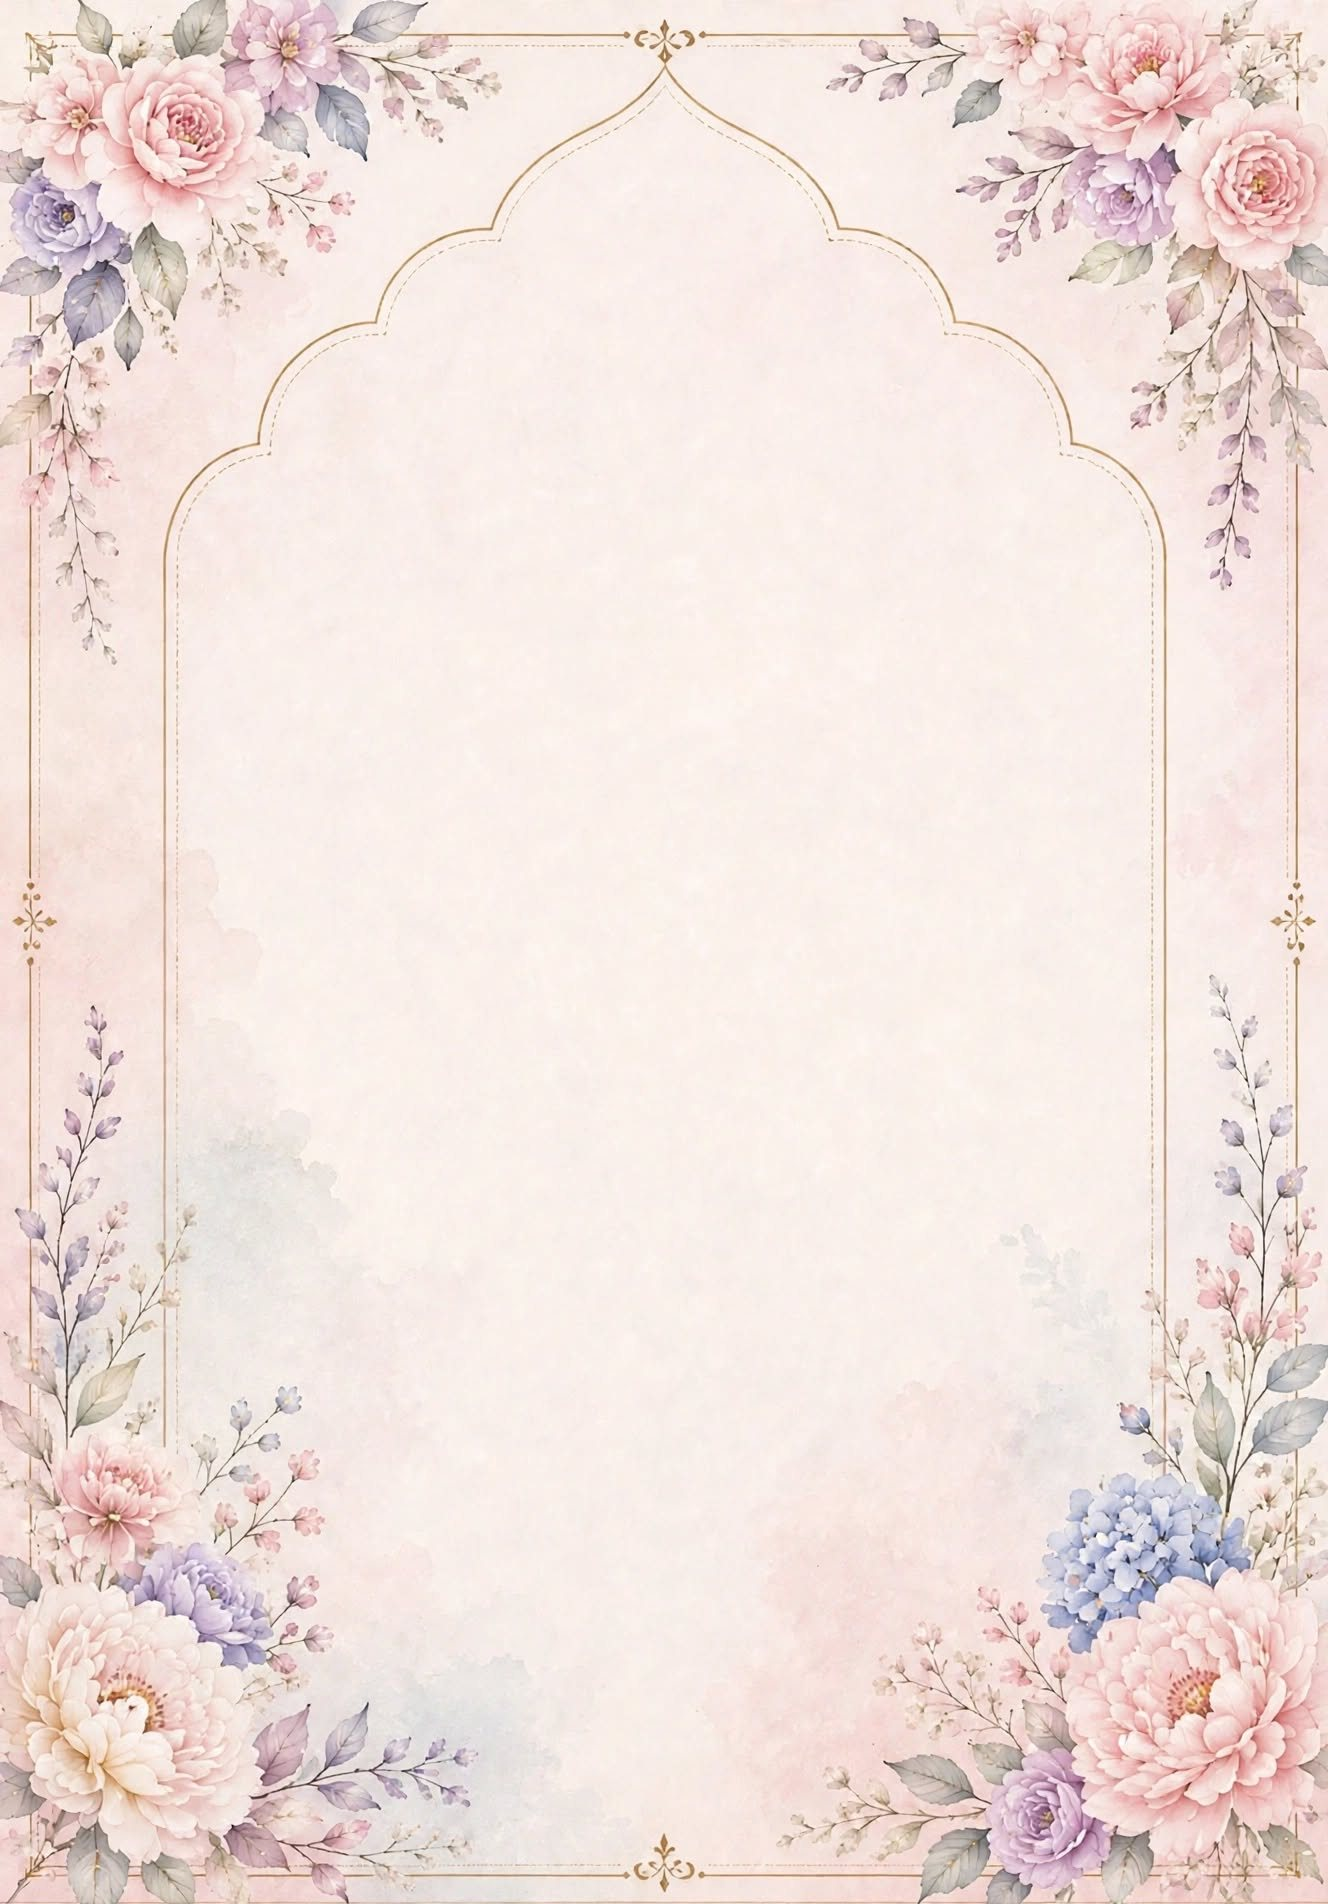
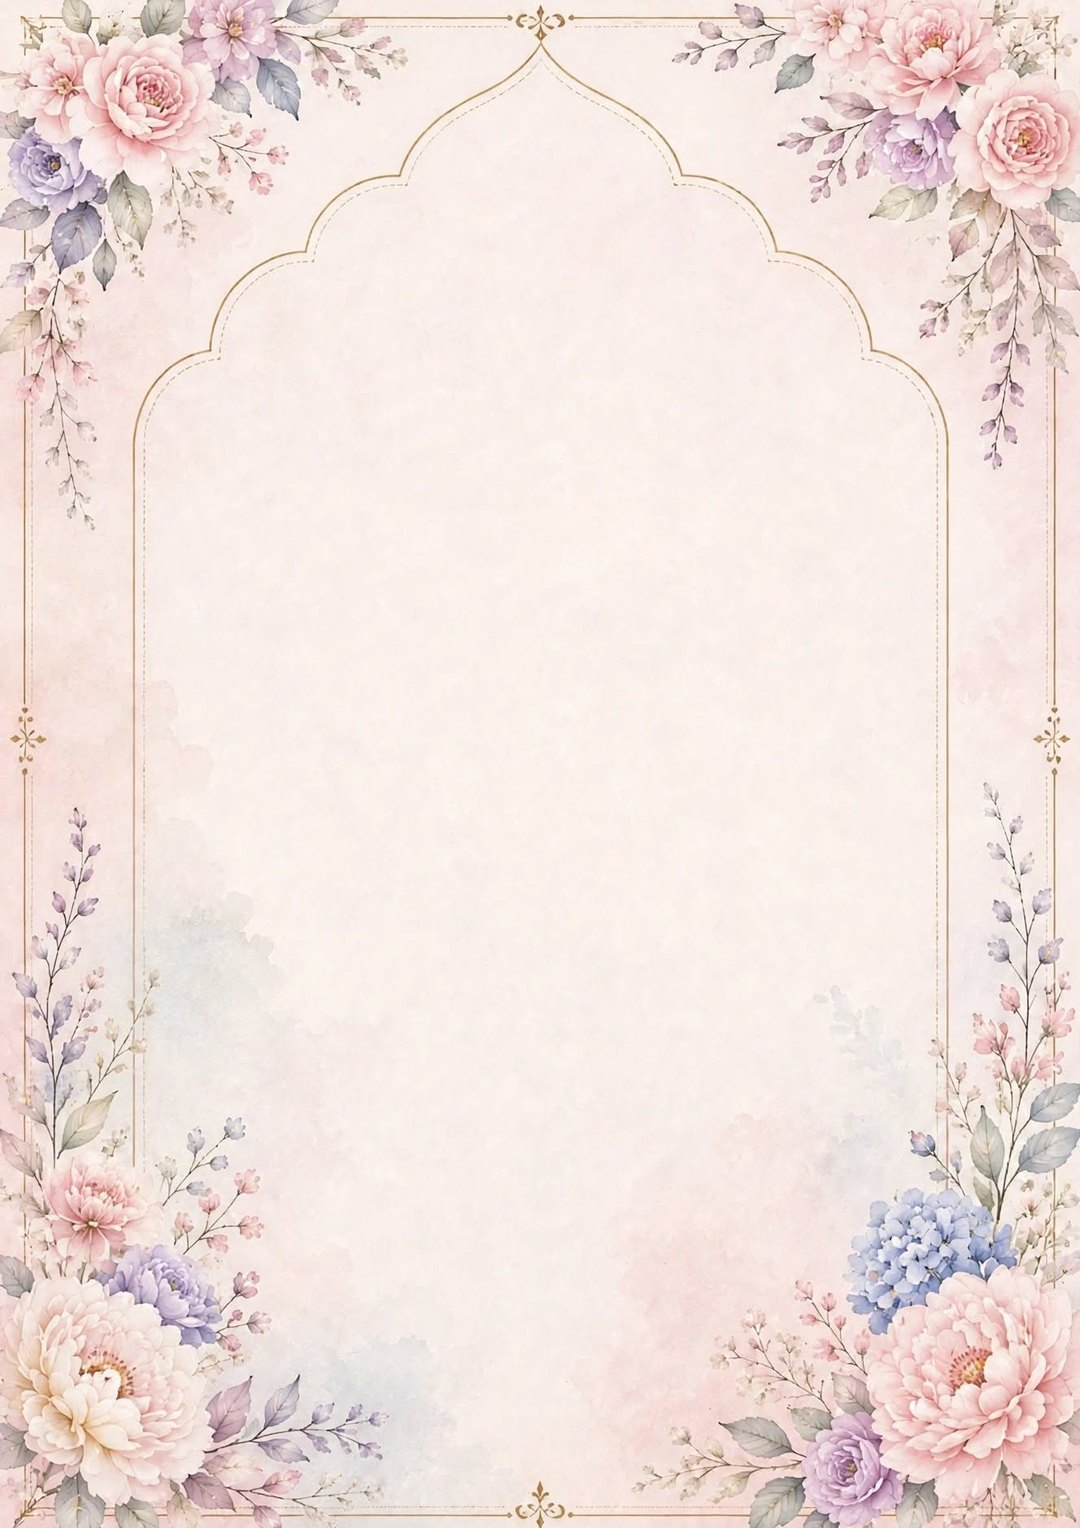
Add files via upload

diff --git a/index.html b/index.html
@@ -12,12 +12,12 @@
   HOW TO EDIT
   • Words (names, dates, events, times, venues): scroll down to the
     blocks marked "EDIT: …".
-  • Pictures live in the "images" folder next to this file:
+  • Pictures sit next to this file (same folder):
       bg-cover.jpg  cover            bg-day3.jpg  Day 3 (Anand Karaj)
       bg-day1.jpg   Day 1            bg-day4.jpg  Day 4 (Reception)
       bg-day2.jpg   Day 2 (Haldi)    fall-*.png  falling flowers
       jhoola.png    the swing on Day 2 (moves on its own)
-      dove-*.png    the flying doves on Day 3
+      bird-*.png    the flying doves on Day 3
     To swap a picture, replace the file (same name) or change the
     url(...) in the "Backgrounds" section below.
   • Each picture fills the whole screen. If text overlaps the artwork
@@ -91,10 +91,11 @@ body.cover-locked{ overflow:hidden; height:100vh; }
    placed in units of the painting, so text and artwork keep the same proportions
    on every screen. Any space left around the painting is filled with a soft,
    blurred copy of it.
-   Per page:  --hw / --wh   painting height÷width and width÷height
-              --t1 / --th   where the text block starts / how tall it is (fraction of painting height)
+   All paintings are the same size: 1080 × 1528 pixels.
+   Per page:  --t1 / --th   where the text block starts / how tall it is (fraction of painting height)
               --tw          half the text width (fraction of painting width)            */
-.painted{ height:100vh; height:100svh; container-type:size; }
+.painted{ height:100vh; height:100svh; container-type:size;
+  --hw:1.41481; --wh:.70681;   /* every painting is 1080 × 1528 */ }
 .painted > *{
   --artH: min(100cqh, calc(100cqw * var(--hw)));
   --artW: calc(var(--artH) * var(--wh));
@@ -141,11 +142,11 @@ body.cover-locked{ overflow:hidden; height:100vh; }
   margin-bottom:calc(.4 * var(--u));
 }
 
-#coverPage{ --hw:1.43373; --wh:.69748; --t1:.22; --th:.42; --tw:.30; }
-#day1{ --hw:1.38961; --wh:.71963; --t1:.17; --th:.50; --tw:.32; }
-#day2{ --hw:1.41556; --wh:.70643; --t1:.15; --th:.40; --tw:.34; }
-#day3{ --hw:1.5;     --wh:.66667; --t1:.27; --th:.41; --tw:.33; }
-#day4{ --hw:1.41556; --wh:.70643; --t1:.115; --th:.465; --tw:.34; }
+#coverPage{ --t1:.216; --th:.426; --tw:.30; }
+#day1{ --t1:.17; --th:.50; --tw:.326; }
+#day2{ --t1:.15; --th:.40; --tw:.34; }
+#day3{ --t1:.265; --th:.418; --tw:.33; }
+#day4{ --t1:.115; --th:.465; --tw:.34; }
 
 #day2 .gurbani, #day2 .translation{ color:#7A4A14; }
 #day3 .gurbani{ color:#6B2E2E; } #day3 .translation{ color:#4E4A3A; }
@@ -246,7 +247,7 @@ body.cover-locked{ overflow:hidden; height:100vh; }
 #day3      { --bg:url('bg-day3.jpg'); }
 #day4      { --bg:url('bg-day4.jpg'); }
 #note      { --bg:url('bg-note.jpg'); }
-#note{ --hw:1.38961; --wh:.71963; --t1:.24; --th:.41; --tw:.31; }
+#note{ --t1:.24; --th:.41; --tw:.316; }
 
 /* ---------- Cover ---------- */
 #coverPage{ cursor:pointer; }
@@ -471,26 +472,26 @@ body:not(.cover-locked) .splash-hint{ display:none; }
 <!-- ======================= EDIT: DAY 3 — 5 NOV ======================= -->
 <section class="page painted" id="day3">
   <div class="art" aria-hidden="true">
-    <span class="bird" style="left:35.625%; top:12.128%; width:6.25%; --dx:18.1cqw; --dy:-3.4cqw; --dur:21.2s; --delay:-1.5s; --flap:0.50s;"><img src="bird-1.png" alt=""></span>
-    <span class="bird" style="left:57.969%; top:13.188%; width:5.234%; --dx:16.8cqw; --dy:-3.0cqw; --dur:21.7s; --delay:-0.8s; --flap:0.48s;"><img src="bird-2.png" alt=""></span>
-    <span class="bird" style="left:45.234%; top:13.876%; width:4.297%; --dx:17.3cqw; --dy:-2.8cqw; --dur:18.7s; --delay:-15.5s; --flap:0.41s;"><img src="bird-3.png" alt=""></span>
-    <span class="bird" style="left:67.656%; top:15.107%; width:5.938%; --dx:24.8cqw; --dy:-4.1cqw; --dur:20.2s; --delay:-11.7s; --flap:0.47s;"><img src="bird-4.png" alt=""></span>
-    <span class="bird" style="left:22.812%; top:15.681%; width:4.766%; --dx:16.7cqw; --dy:-3.8cqw; --dur:27.8s; --delay:-8.0s; --flap:0.41s;"><img src="bird-5.png" alt=""></span>
-    <span class="bird" style="left:50.078%; top:16.225%; width:4.375%; --dx:20.3cqw; --dy:-3.7cqw; --dur:19.2s; --delay:-3.5s; --flap:0.51s;"><img src="bird-6.png" alt=""></span>
-    <span class="bird" style="left:37.578%; top:16.597%; width:4.453%; --dx:21.2cqw; --dy:-3.1cqw; --dur:24.4s; --delay:-1.5s; --flap:0.39s;"><img src="bird-7.png" alt=""></span>
-    <span class="bird" style="left:57.188%; top:17.027%; width:5.312%; --dx:25.5cqw; --dy:-2.8cqw; --dur:20.1s; --delay:-6.3s; --flap:0.51s;"><img src="bird-8.png" alt=""></span>
-    <span class="bird" style="left:17.422%; top:17.542%; width:5.0%; --dx:20.2cqw; --dy:-3.7cqw; --dur:22.5s; --delay:-15.7s; --flap:0.43s;"><img src="bird-9.png" alt=""></span>
-    <span class="bird" style="left:29.141%; top:17.542%; width:5.0%; --dx:23.4cqw; --dy:-3.9cqw; --dur:23.7s; --delay:-17.3s; --flap:0.44s;"><img src="bird-10.png" alt=""></span>
-    <span class="bird" style="left:74.062%; top:18.516%; width:5.391%; --dx:17.7cqw; --dy:-2.8cqw; --dur:27.8s; --delay:-21.0s; --flap:0.41s;"><img src="bird-11.png" alt=""></span>
-    <span class="bird" style="left:65.781%; top:18.631%; width:5.938%; --dx:16.5cqw; --dy:-3.4cqw; --dur:22.9s; --delay:-17.5s; --flap:0.51s;"><img src="bird-12.png" alt=""></span>
-    <span class="bird" style="left:30.859%; top:19.519%; width:4.766%; --dx:20.4cqw; --dy:-3.5cqw; --dur:26.8s; --delay:-15.9s; --flap:0.51s;"><img src="bird-13.png" alt=""></span>
-    <span class="bird" style="left:22.812%; top:20.092%; width:6.172%; --dx:27.8cqw; --dy:-4.1cqw; --dur:22.6s; --delay:-10.7s; --flap:0.53s;"><img src="bird-14.png" alt=""></span>
-    <span class="bird" style="left:63.438%; top:22.298%; width:3.125%; --dx:25.8cqw; --dy:-3.3cqw; --dur:18.6s; --delay:-18.5s; --flap:0.56s;"><img src="bird-15.png" alt=""></span>
-    <span class="bird" style="left:77.578%; top:23.014%; width:4.375%; --dx:21.4cqw; --dy:-3.4cqw; --dur:20.8s; --delay:-0.5s; --flap:0.48s;"><img src="bird-16.png" alt=""></span>
-    <span class="bird" style="left:19.609%; top:23.215%; width:6.172%; --dx:17.6cqw; --dy:-1.9cqw; --dur:19.7s; --delay:-15.1s; --flap:0.41s;"><img src="bird-17.png" alt=""></span>
-    <span class="bird" style="left:69.219%; top:23.300%; width:5.703%; --dx:21.5cqw; --dy:-3.9cqw; --dur:20.5s; --delay:-1.6s; --flap:0.48s;"><img src="bird-18.png" alt=""></span>
-    <span class="bird" style="left:69.844%; top:25.907%; width:5.078%; --dx:28.4cqw; --dy:-3.7cqw; --dur:23.5s; --delay:-20.3s; --flap:0.44s;"><img src="bird-19.png" alt=""></span>
-    <span class="bird" style="left:82.266%; top:26.681%; width:5.156%; --dx:21.0cqw; --dy:-3.9cqw; --dur:22.2s; --delay:-21.2s; --flap:0.41s;"><img src="bird-20.png" alt=""></span>
+    <span class="bird" style="left:35.625%; top:11.363%; width:6.25%; --dx:18.1cqw; --dy:-3.4cqw; --dur:21.2s; --delay:-1.5s; --flap:0.50s;"><img src="bird-1.png" alt=""></span>
+    <span class="bird" style="left:57.969%; top:12.445%; width:5.234%; --dx:16.8cqw; --dy:-3.0cqw; --dur:21.7s; --delay:-0.8s; --flap:0.48s;"><img src="bird-2.png" alt=""></span>
+    <span class="bird" style="left:45.234%; top:13.147%; width:4.297%; --dx:17.3cqw; --dy:-2.8cqw; --dur:18.7s; --delay:-15.5s; --flap:0.41s;"><img src="bird-3.png" alt=""></span>
+    <span class="bird" style="left:67.656%; top:14.402%; width:5.938%; --dx:24.8cqw; --dy:-4.1cqw; --dur:20.2s; --delay:-11.7s; --flap:0.47s;"><img src="bird-4.png" alt=""></span>
+    <span class="bird" style="left:22.812%; top:14.988%; width:4.766%; --dx:16.7cqw; --dy:-3.8cqw; --dur:27.8s; --delay:-8.0s; --flap:0.41s;"><img src="bird-5.png" alt=""></span>
+    <span class="bird" style="left:50.078%; top:15.543%; width:4.375%; --dx:20.3cqw; --dy:-3.7cqw; --dur:19.2s; --delay:-3.5s; --flap:0.51s;"><img src="bird-6.png" alt=""></span>
+    <span class="bird" style="left:37.578%; top:15.923%; width:4.453%; --dx:21.2cqw; --dy:-3.1cqw; --dur:24.4s; --delay:-1.5s; --flap:0.39s;"><img src="bird-7.png" alt=""></span>
+    <span class="bird" style="left:57.188%; top:16.361%; width:5.312%; --dx:25.5cqw; --dy:-2.8cqw; --dur:20.1s; --delay:-6.3s; --flap:0.51s;"><img src="bird-8.png" alt=""></span>
+    <span class="bird" style="left:17.422%; top:16.887%; width:5.0%; --dx:20.2cqw; --dy:-3.7cqw; --dur:22.5s; --delay:-15.7s; --flap:0.43s;"><img src="bird-9.png" alt=""></span>
+    <span class="bird" style="left:29.141%; top:16.887%; width:5.0%; --dx:23.4cqw; --dy:-3.9cqw; --dur:23.7s; --delay:-17.3s; --flap:0.44s;"><img src="bird-10.png" alt=""></span>
+    <span class="bird" style="left:74.062%; top:17.880%; width:5.391%; --dx:17.7cqw; --dy:-2.8cqw; --dur:27.8s; --delay:-21.0s; --flap:0.41s;"><img src="bird-11.png" alt=""></span>
+    <span class="bird" style="left:65.781%; top:17.998%; width:5.938%; --dx:16.5cqw; --dy:-3.4cqw; --dur:22.9s; --delay:-17.5s; --flap:0.51s;"><img src="bird-12.png" alt=""></span>
+    <span class="bird" style="left:30.859%; top:18.904%; width:4.766%; --dx:20.4cqw; --dy:-3.5cqw; --dur:26.8s; --delay:-15.9s; --flap:0.51s;"><img src="bird-13.png" alt=""></span>
+    <span class="bird" style="left:22.812%; top:19.488%; width:6.172%; --dx:27.8cqw; --dy:-4.1cqw; --dur:22.6s; --delay:-10.7s; --flap:0.53s;"><img src="bird-14.png" alt=""></span>
+    <span class="bird" style="left:63.438%; top:21.739%; width:3.125%; --dx:25.8cqw; --dy:-3.3cqw; --dur:18.6s; --delay:-18.5s; --flap:0.56s;"><img src="bird-15.png" alt=""></span>
+    <span class="bird" style="left:77.578%; top:22.469%; width:4.375%; --dx:21.4cqw; --dy:-3.4cqw; --dur:20.8s; --delay:-0.5s; --flap:0.48s;"><img src="bird-16.png" alt=""></span>
+    <span class="bird" style="left:19.609%; top:22.674%; width:6.172%; --dx:17.6cqw; --dy:-1.9cqw; --dur:19.7s; --delay:-15.1s; --flap:0.41s;"><img src="bird-17.png" alt=""></span>
+    <span class="bird" style="left:69.219%; top:22.761%; width:5.703%; --dx:21.5cqw; --dy:-3.9cqw; --dur:20.5s; --delay:-1.6s; --flap:0.48s;"><img src="bird-18.png" alt=""></span>
+    <span class="bird" style="left:69.844%; top:25.421%; width:5.078%; --dx:28.4cqw; --dy:-3.7cqw; --dur:23.5s; --delay:-20.3s; --flap:0.44s;"><img src="bird-19.png" alt=""></span>
+    <span class="bird" style="left:82.266%; top:26.210%; width:5.156%; --dx:21.0cqw; --dy:-3.9cqw; --dur:22.2s; --delay:-21.2s; --flap:0.41s;"><img src="bird-20.png" alt=""></span>
   </div>
   <div class="card-text">
     <div class="verse">
